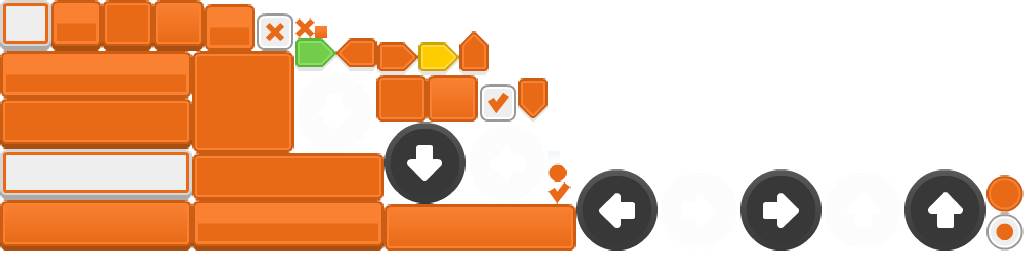
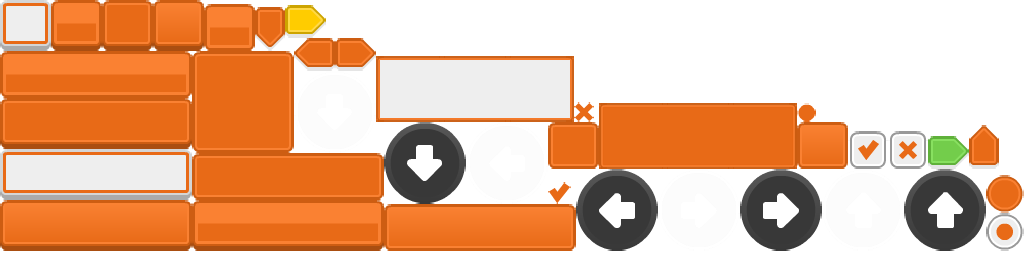
Changed textures for song select screen, started more editting screens

Changed region(s): [[0.25, 0.0, 1.0, 0.7188]]

diff --git a/core/src/com/splitbeat/game/SongSelectScreen.java b/core/src/com/splitbeat/game/SongSelectScreen.java
@@ -8,10 +8,7 @@ import com.badlogic.gdx.Gdx;
 import com.badlogic.gdx.Input.Keys;
 import com.badlogic.gdx.graphics.Color;
 import com.badlogic.gdx.graphics.GL20;
-import com.badlogic.gdx.graphics.Texture.TextureFilter;
-import com.badlogic.gdx.graphics.g2d.Sprite;
 import com.badlogic.gdx.graphics.g2d.TextureAtlas;
-import com.badlogic.gdx.graphics.g2d.TextureRegion;
 import com.badlogic.gdx.scenes.scene2d.InputEvent;
 import com.badlogic.gdx.scenes.scene2d.InputListener;
 import com.badlogic.gdx.scenes.scene2d.Stage;
@@ -20,11 +17,12 @@ import com.badlogic.gdx.scenes.scene2d.ui.Image;
 import com.badlogic.gdx.scenes.scene2d.ui.Label;
 import com.badlogic.gdx.scenes.scene2d.ui.ScrollPane;
 import com.badlogic.gdx.scenes.scene2d.ui.Skin;
+import com.badlogic.gdx.scenes.scene2d.ui.Stack;
 import com.badlogic.gdx.scenes.scene2d.ui.Table;
 import com.badlogic.gdx.scenes.scene2d.ui.TextButton;
 import com.badlogic.gdx.scenes.scene2d.utils.Align;
 import com.badlogic.gdx.scenes.scene2d.utils.ClickListener;
-import com.badlogic.gdx.scenes.scene2d.utils.SpriteDrawable;
+import com.badlogic.gdx.scenes.scene2d.utils.TextureRegionDrawable;
 
 public class SongSelectScreen extends AbstractGameScreen {
 	
@@ -51,11 +49,6 @@ public class SongSelectScreen extends AbstractGameScreen {
 	private Difficulty mSelectedDifficulty;
 	private ArrayList<SongData> mSongDataArr;
 	
-	private Sprite mGradientSprite;
-	private Sprite mGradientHighlightSprite;
-	private SpriteDrawable mGradientDrawable;
-	private SpriteDrawable mGradientHighlightDrawable;
-
 	SongSelectScreen(Game game) {
 		super(game);
 		mSelectedIndex = -1;
@@ -67,22 +60,6 @@ public class SongSelectScreen extends AbstractGameScreen {
 		mSkin = new Skin(
 				Gdx.files.internal(Constants.GUI_SKIN),
 				new TextureAtlas(Constants.TEXTURE_ATLAS_GUI));
-		
-		//Set up our song table textures
-		Assets.instance.gui.repeatGradient.getTexture().setFilter(
-				TextureFilter.Linear, TextureFilter.Linear);
-		Assets.instance.gui.repeatGradientHighlight.getTexture().setFilter(
-				TextureFilter.Linear, TextureFilter.Linear);
-		
-		TextureRegion gradientRegion = new TextureRegion(Assets.instance.gui.repeatGradient);
-		mGradientSprite = new Sprite(gradientRegion);
-		mGradientSprite.setSize(mGradientSprite.getWidth(), Gdx.graphics.getHeight() / Constants.CELL_PADDING);
-		mGradientDrawable = new SpriteDrawable(mGradientSprite);
-		
-		TextureRegion gradientRegionHighlight = new TextureRegion(Assets.instance.gui.repeatGradientHighlight);
-		mGradientHighlightSprite = new Sprite(gradientRegionHighlight);
-		mGradientHighlightSprite.setSize(mGradientHighlightSprite.getWidth(), Gdx.graphics.getHeight() / Constants.CELL_PADDING);
-		mGradientHighlightDrawable = new SpriteDrawable(mGradientHighlightSprite);
 		
 		//Build our GUI
 		buildLabels();
@@ -153,8 +130,14 @@ public class SongSelectScreen extends AbstractGameScreen {
 	
 	private void dehighlightSong(int index){
 		if (mSelectedIndex < 0) return;
-		Table songTable = (Table) mSongsTable.getCells().get(mSelectedIndex).getActor();
-		songTable.setBackground(mGradientDrawable);
+		Stack songStack = (Stack) mSongsTable.getCells().get(mSelectedIndex).getActor();
+		Table bgTable = (Table) songStack.getChildren().get(0);
+		((Image) bgTable.getChildren().get(0)).setDrawable(
+				new TextureRegionDrawable(Assets.instance.gui.redPanelLeft));;
+		((Image) bgTable.getChildren().get(1)).setDrawable(
+				new TextureRegionDrawable(Assets.instance.gui.redPanelRepeat));;			
+		((Image) bgTable.getChildren().get(2)).setDrawable(
+				new TextureRegionDrawable(Assets.instance.gui.redPanelRight));;
 	}
 	
 	private void highlightSong(int index){
@@ -162,8 +145,14 @@ public class SongSelectScreen extends AbstractGameScreen {
 		mSelectedIndex = index;
 		
 		//Change background
-		Table songTable = (Table) mSongsTable.getCells().get(mSelectedIndex).getActor();
-		songTable.setBackground(mGradientHighlightDrawable);	
+		Stack songStack = (Stack) mSongsTable.getCells().get(mSelectedIndex).getActor();
+		Table bgTable = (Table) songStack.getChildren().get(0);
+		((Image) bgTable.getChildren().get(0)).setDrawable(
+				new TextureRegionDrawable(Assets.instance.gui.highlightedPanelLeft));;
+		((Image) bgTable.getChildren().get(1)).setDrawable(
+				new TextureRegionDrawable(Assets.instance.gui.highlightedPanelRepeat));;			
+		((Image) bgTable.getChildren().get(2)).setDrawable(
+				new TextureRegionDrawable(Assets.instance.gui.highlightedPanelRight));;
 		
 		//Update scores
 		SongScore scores = Options.instance.getScores(mSongDataArr.get(mSelectedIndex).getName());
@@ -188,7 +177,7 @@ public class SongSelectScreen extends AbstractGameScreen {
 		mHardScoreLabel.setText(hardScore);
 		
 		//Move scroll pane accordingly
-		mSongsPane.scrollTo(songTable.getX(), songTable.getY(), songTable.getWidth(), songTable.getHeight());
+		mSongsPane.scrollTo(songStack.getX(), songStack.getY(), songStack.getWidth(), songStack.getHeight());
 	}
 	
 	private void selectDifficulty(Difficulty difficulty){
@@ -243,12 +232,15 @@ public class SongSelectScreen extends AbstractGameScreen {
 	private void buildSongPane(){
 		
 		mSongsTable = new Table();
+		
 		for (Map.Entry<String, SongData> entry : Assets.instance.maps.dataMap.entrySet()){
 			
 			SongData data = entry.getValue();
 			mSongDataArr.add(data);
 			//Make labels based on song data
 			Table scrollTable = new Table();
+			Stack stack = new Stack();
+			
 			Label nameLabel = new Label(data.getTitle(), mSkin, "black");
 			nameLabel.setAlignment(Align.center);
 			Label artistLabel = new Label(data.getArtist(), mSkin, "black");
@@ -268,10 +260,16 @@ public class SongSelectScreen extends AbstractGameScreen {
 			scrollTable.add(artistLabel).width(colWidth);
 			scrollTable.add(timeLabel).width(colWidth);
 			scrollTable.add(bpmLabel).width(colWidth);
-			scrollTable.setBackground(mGradientDrawable);
 			scrollTable.setTouchable(Touchable.enabled);
 			//scrollTable.debug();
-			mSongsTable.add(scrollTable).fillX().expandX();
+			
+			Table bgTable = new Table();
+			bgTable.add(new Image(Assets.instance.gui.redPanelLeft));
+			bgTable.add(new Image(Assets.instance.gui.redPanelRepeat)).fillX().expandX();
+			bgTable.add(new Image(Assets.instance.gui.redPanelRight));
+			stack.add(bgTable);
+			stack.add(scrollTable);	
+			mSongsTable.add(stack);
 			mSongsTable.row();
 		}
 		mSongsPane = new ScrollPane(mSongsTable);

diff --git a/core/src/com/splitbeat/game/EditExistingScreen.java b/core/src/com/splitbeat/game/EditExistingScreen.java
@@ -1,0 +1,135 @@
+package com.splitbeat.game;
+
+import java.util.ArrayList;
+
+import com.badlogic.gdx.Game;
+import com.badlogic.gdx.Gdx;
+import com.badlogic.gdx.Input.Keys;
+import com.badlogic.gdx.graphics.g2d.TextureAtlas;
+import com.badlogic.gdx.scenes.scene2d.InputEvent;
+import com.badlogic.gdx.scenes.scene2d.InputListener;
+import com.badlogic.gdx.scenes.scene2d.Stage;
+import com.badlogic.gdx.scenes.scene2d.ui.Label;
+import com.badlogic.gdx.scenes.scene2d.ui.ScrollPane;
+import com.badlogic.gdx.scenes.scene2d.ui.Skin;
+import com.badlogic.gdx.scenes.scene2d.ui.Table;
+
+public class EditExistingScreen extends AbstractGameScreen {
+	
+	private Stage mStage;
+	private Skin mSkin;
+	private Table mLayoutTable;
+	
+	private ScrollPane mSongsPane;
+	private Table mSongsTable;
+	private Label mDifficultyLabel;
+	
+	private int mSelectedIndex;
+	private Difficulty mSelectedDifficulty;
+	private ArrayList<SongData> mSongDataArr;
+
+	EditExistingScreen(Game game) {
+		super(game);
+		mSelectedIndex = -1;
+		mSongDataArr = new ArrayList<SongData>();
+	}
+	
+	private void init(){
+		
+		mSkin = new Skin(
+			Gdx.files.internal(Constants.GUI_SKIN),
+			new TextureAtlas(Constants.TEXTURE_ATLAS_GUI));
+		
+		mStage.addActor(mLayoutTable);
+		mStage.setKeyboardFocus(mSongsTable);
+		
+		//Keyboard navigation
+		/*
+		mSongsPane.addListener(new InputListener(){
+			
+			@Override
+			public boolean keyDown(InputEvent event, int keycode){
+				int newIndex;
+				Difficulty newDifficulty;
+				switch(keycode){
+				case(Keys.DOWN):
+					if (mSelectedIndex >= 0)
+						dehighlightSong(mSelectedIndex);
+					newIndex = (mSelectedIndex + 1) % Assets.instance.maps.dataMap.size();
+					highlightSong(newIndex);
+					break;
+				case(Keys.UP):
+					dehighlightSong(mSelectedIndex);
+					newIndex = 
+						(mSelectedIndex + Assets.instance.maps.dataMap.size() - 1) % 
+						Assets.instance.maps.dataMap.size();
+					highlightSong(newIndex);
+					break;
+				case(Keys.LEFT):
+					Difficulty prevSelect = mSelectedDifficulty.prev();
+					while (mSongDataArr.get(mSelectedIndex).getLeftMap(prevSelect) == null)
+						prevSelect = prevSelect.prev();
+					selectDifficulty(prevSelect);
+					break;
+				case(Keys.RIGHT):
+					Difficulty nextSelect = mSelectedDifficulty.next();
+					while (mSongDataArr.get(mSelectedIndex).getLeftMap(nextSelect) == null)
+						nextSelect = nextSelect.next();
+					selectDifficulty(nextSelect);
+					break;
+				case(Keys.ENTER):
+					if (mSelectedIndex < 0) break;
+					game.setScreen(new GameScreen(game, mSongDataArr.get(mSelectedIndex).getName(), mSelectedDifficulty));
+					break;
+				case(Keys.ESCAPE):
+					game.setScreen(new MenuScreen(game));
+					break;
+				}
+				return true;
+			}
+			
+			@Override
+			public boolean touchDown(InputEvent event, float x, float y, int pointer, int button){
+				if (mSelectedIndex >= 0)
+					dehighlightSong(mSelectedIndex);
+				float rowPos = mSongsTable.getHeight() - (mSongsPane.getHeight() - y + mSongsPane.getScrollY());
+				int row = mSongsTable.getRow(rowPos);
+				mSelectedIndex = row;
+				highlightSong(row);	
+				return true;
+			}
+		});
+		*/
+	}
+
+	@Override
+	public void render(float delta) {
+		// TODO Auto-generated method stub
+
+	}
+
+	@Override
+	public void resize(int width, int height) {
+		// TODO Auto-generated method stub
+
+	}
+
+	@Override
+	public void show() {
+		// TODO Auto-generated method stub
+
+	}
+
+	@Override
+	public void hide() {
+		// TODO Auto-generated method stub
+
+	}
+
+	@Override
+	public void pause() {
+		// TODO Auto-generated method stub
+
+	}
+
+}

diff --git a/core/src/com/splitbeat/game/Assets.java b/core/src/com/splitbeat/game/Assets.java
@@ -155,8 +155,12 @@ public class Assets implements Disposable, AssetErrorListener{
 	
 	public class AssetGUI{
 		
-		public final AtlasRegion repeatGradient;
-		public final AtlasRegion repeatGradientHighlight;
+		public final AtlasRegion redPanelLeft;
+		public final AtlasRegion redPanelRight;
+		public final AtlasRegion redPanelRepeat;
+		public final AtlasRegion highlightedPanelLeft;
+		public final AtlasRegion highlightedPanelRight;
+		public final AtlasRegion highlightedPanelRepeat;
 		public final AtlasRegion greenSlider;
 		public final AtlasRegion yellowSlider;
 		public final AtlasRegion redSlider;
@@ -165,8 +169,12 @@ public class Assets implements Disposable, AssetErrorListener{
 		public final AtlasRegion upArrow;
 		public final AtlasRegion downArrow;
 		AssetGUI(TextureAtlas atlas){
-			repeatGradient = atlas.findRegion("gradient_repeat");
-			repeatGradientHighlight = atlas.findRegion("gradient_repeat_highlight");
+			redPanelLeft = atlas.findRegion("red_panel_left");
+			redPanelRight = atlas.findRegion("red_panel_right");
+			redPanelRepeat = atlas.findRegion("red_panel_repeat");
+			highlightedPanelLeft = atlas.findRegion("highlighted_panel_left");
+			highlightedPanelRight = atlas.findRegion("highlighted_panel_right");
+			highlightedPanelRepeat = atlas.findRegion("highlighted_panel_repeat");
 			greenSlider = atlas.findRegion("green_sliderRight");
 			yellowSlider = atlas.findRegion("yellow_sliderRight");
 			redSlider = atlas.findRegion("red_sliderRight");

diff --git a/core/src/com/splitbeat/game/EditSelectionScreen.java b/core/src/com/splitbeat/game/EditSelectionScreen.java
@@ -147,7 +147,7 @@ public class EditSelectionScreen extends AbstractGameScreen {
 		layer.add(mImportButton).padBottom(Constants.CELL_PADDING);
 		layer.row();
 		
-		mEditButton = new TextButton("Edit", mSkin, "default");
+		mEditButton = new TextButton("Edit Existing", mSkin, "default");
 		mEditButton.addListener(new ClickListener() {
 			
 			@Override
